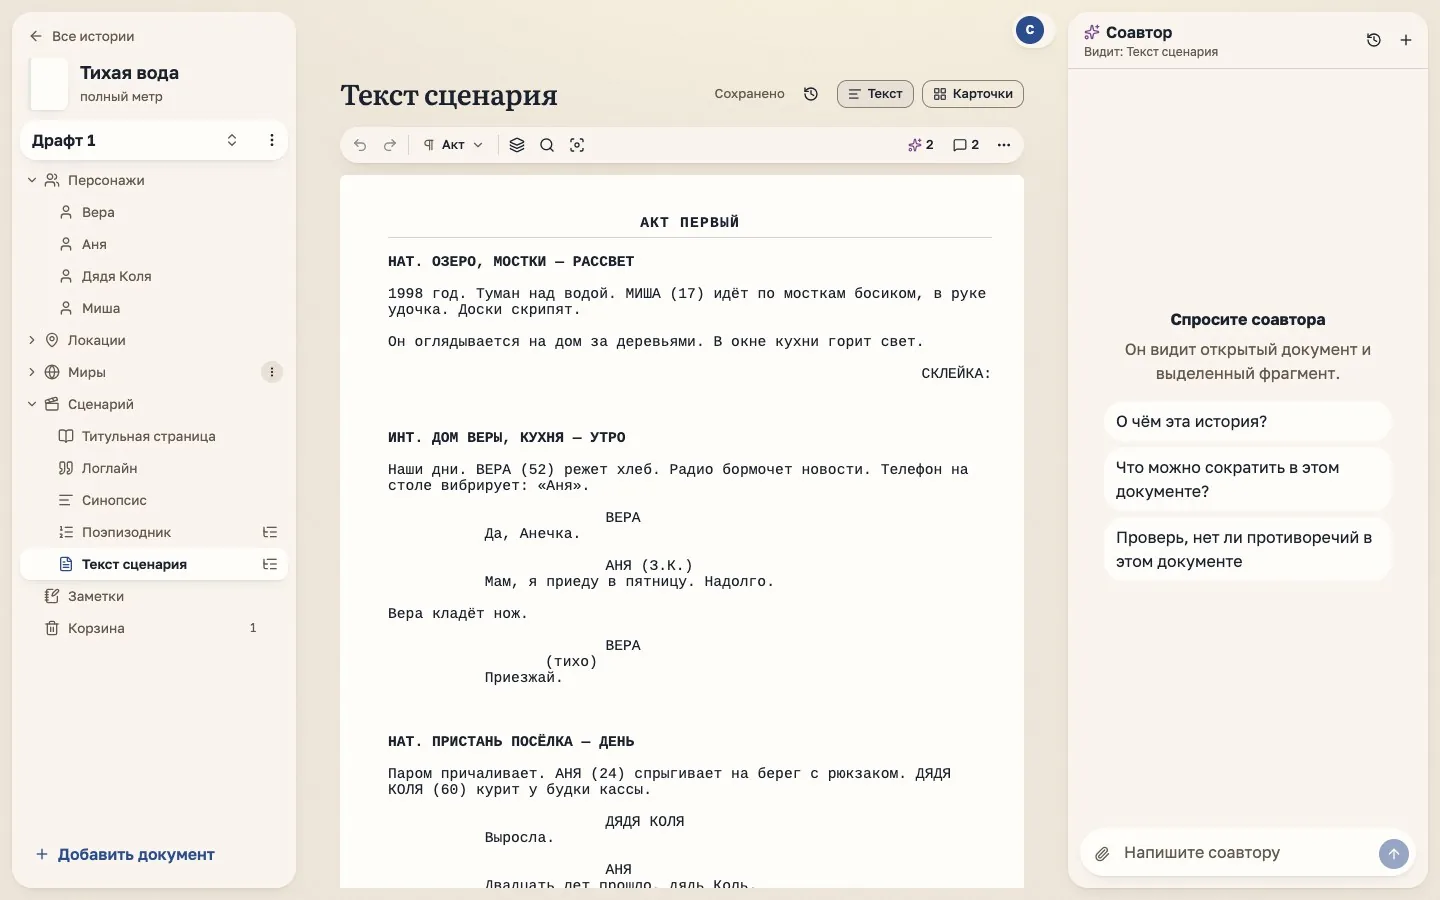
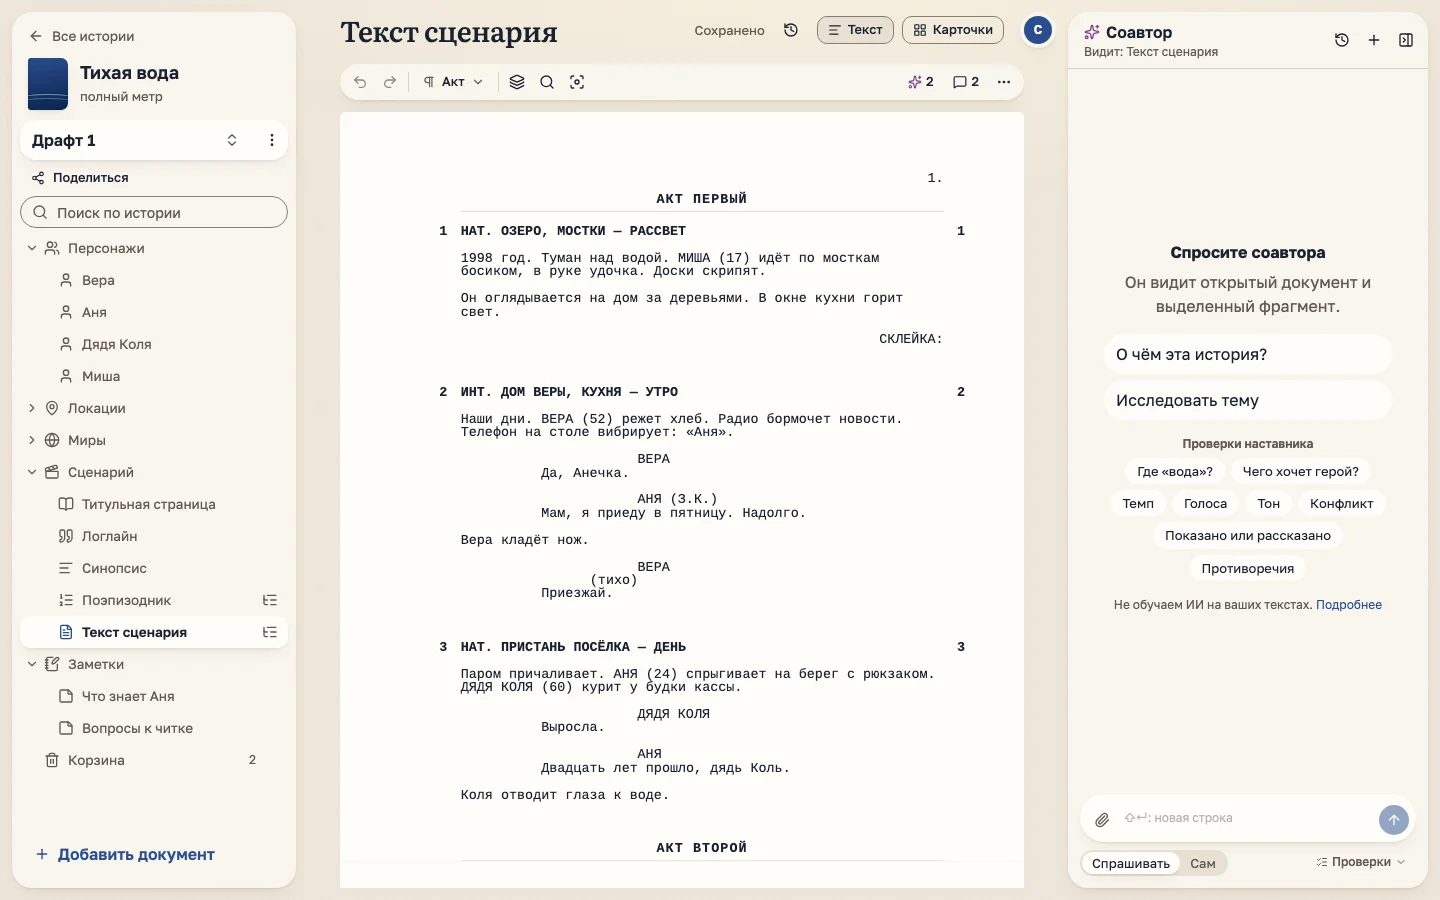
Landing mock: the dialogue as a chat, simpler notes, a fresh editor screenshot
Garage block: the author's message is a bubble on the right and the co-author
answers on the left, so the two voices no longer merge. The notes are worded
more simply, the «В диалоге» lines are gone, the hero's line is «Дай ключ на
тринадцать» and no longer sits inside the last frame.

Draft block: the screenshot is taken from the current editor on the demo
story. The file card stands above it, an arrow leads from the card onto the
sheet; the card, the arrow and a ring on the editor appear once on scroll.

diff --git a/openspec/context/_raw/design/site-landing/landing-mock.html b/openspec/context/_raw/design/site-landing/landing-mock.html
@@ -343,20 +343,22 @@ body::before { content: ""; position: fixed; inset: 0 0 auto; height: env(safe-a
 .board { position: relative; margin-top: 48px; display: grid; gap: 40px; --floor: var(--panel); }
 .chalk-defs { position: absolute; }
 .talk { min-width: 0; }
-.turn { margin-top: 24px; }
-.turn .who { margin-bottom: 8px !important; }
-.author-text { font-family: var(--font-prose); font-size: 24px; line-height: 32px; font-weight: 500; text-wrap: pretty; }
+/* The dialogue reads as a chat: the author's message is a bubble on the right, the co-author answers on the left. */
+.msg { margin-top: 20px; }
+.msg .who { margin-bottom: 8px !important; }
+.msg-author { display: flex; flex-direction: column; align-items: flex-end; }
+.bubble { max-width: 88%; padding: 14px 18px; border-radius: 20px 20px 6px 20px; background: var(--muted); font-size: 18px; line-height: 28px; text-wrap: pretty; }
+.msg-ai { margin-top: 28px; }
 .reply { font-size: 18px; line-height: 28px; text-wrap: pretty; }
-.punch { margin-top: 12px !important; font-family: var(--font-prose); font-weight: 600; font-size: 30px; line-height: 40px; letter-spacing: -0.015em; }
-.lg-br { display: none; }
-.ph, .note-from .q {
+.punch { margin-top: 16px !important; font-family: var(--font-prose); font-weight: 600; font-size: 24px; line-height: 32px; letter-spacing: -0.015em; text-wrap: balance; }
+.ph {
   text-decoration-line: underline; text-decoration-style: dotted; text-decoration-color: var(--ai); text-decoration-thickness: 2px; text-underline-offset: 5px;
 }
 .ph {
   border-radius: 3px; cursor: pointer; -webkit-box-decoration-break: clone; box-decoration-break: clone;
   transition: background-color 0.3s var(--ease), box-shadow 0.3s var(--ease);
 }
-.punch .ph { text-underline-offset: 8px; }
+.punch .ph { text-underline-offset: 7px; }
 .ph:hover { background: color-mix(in oklch, var(--ai-subtle) 60%, transparent); }
 .ph.is-on, .ph.is-hot { background: var(--ai-subtle); box-shadow: 0 0 0 3px var(--ai-subtle); text-decoration-style: solid; }
 .punch .ph:hover, .punch .ph.is-on, .punch .ph.is-hot { background: transparent; box-shadow: none; }
@@ -365,7 +367,8 @@ body::before { content: ""; position: fixed; inset: 0 0 auto; height: env(safe-a
 /* The storyboard: three chalk frames of the same floor, each with its note. */
 .story { min-width: 0; }
 .frames { margin-top: 16px !important; display: grid; gap: 40px; }
-.frame { scroll-margin-top: 104px; }
+/* A phrase of the dialogue is a link to its note: the note lands across the middle of the screen, where it is marked. */
+.frame { scroll-margin-top: max(104px, calc(50vh - 180px)); }
 .frame-pic { position: relative; border-radius: 16px; overflow: hidden; background: radial-gradient(90% 70% at 50% 30%, oklch(0.36 0.055 70 / 0.3), transparent), var(--floor); box-shadow: 0 0 0 1px var(--border); }
 .frame-pic::before { content: ""; position: absolute; inset: 0; background-image: var(--grain-image); opacity: 0.1; pointer-events: none; }
 .frame-svg { position: relative; display: block; width: 100%; height: auto; color: var(--foreground); }
@@ -373,17 +376,14 @@ body::before { content: ""; position: fixed; inset: 0 0 auto; height: env(safe-a
 .f-mark { font-weight: 600; font-size: 22px; text-anchor: middle; dominant-baseline: central; fill: currentColor; }
 .f-side, .f-name { font-size: 14px; text-anchor: middle; fill: var(--muted-foreground); }
 .f-time { font-size: 15px; font-weight: 500; fill: currentColor; }
-.frame-svg .f-say { font-family: var(--font-prose); font-weight: 600; font-size: 16px; text-anchor: end; fill: currentColor; }
 .f-num circle { fill: var(--ai); }
 .f-num text { font-size: 14px; font-weight: 700; text-anchor: middle; dominant-baseline: central; fill: var(--desk); }
 .f-drop, .f-hand { transform-box: fill-box; transform-origin: center; }
 .note { margin-top: 16px; }
 .note-title { font-weight: 600; color: var(--ai); }
 .note-text { margin-top: 4px !important; max-width: 34em; }
-.note-from { margin-top: 6px !important; color: var(--muted-foreground); }
-.note-from .q { color: var(--foreground); text-underline-offset: 4px; }
 .reasons { margin-top: 20px !important; display: grid; gap: 20px; }
-.reason { display: grid; grid-template-columns: 24px minmax(0, 1fr); column-gap: 12px; scroll-margin-top: 40vh; }
+.reason { display: grid; grid-template-columns: 24px minmax(0, 1fr); column-gap: 12px; scroll-margin-top: calc(50vh - 32px); }
 .num { display: grid; place-items: center; width: 24px; height: 24px; border-radius: 50%; background: var(--ai); color: var(--desk); font-size: 14px; line-height: 1; font-weight: 700; }
 /* With scripts the note in the middle of the screen is the marked one, like its phrase in the dialogue. */
 .js .story .note-title { color: var(--foreground); transition: color 0.3s var(--ease); }
@@ -401,15 +401,15 @@ body::before { content: ""; position: fixed; inset: 0 0 auto; height: env(safe-a
 @media (min-width: 1024px) {
   .know-head { gap: 24px; }
   .board { margin-top: 64px; }
+  .punch { font-size: 30px; line-height: 40px; }
   .board-cap { margin-top: 48px !important; }
 }
-/* The large type of the dialogue needs a column of 530 px: its hand-set lines must each stay on one line. */
+/* The large type of the dialogue needs a column of 530 px: the hero's line must stay on one line. */
 @media (min-width: 1180px) {
   .board { column-gap: 72px; }
-  .author-text { font-size: 28px; line-height: 36px; }
-  .reply { font-size: 20px; line-height: 32px; }
-  .punch { font-size: 48px; line-height: 56px; }
-  .lg-br { display: inline; }
+  .bubble, .reply { font-size: 20px; line-height: 32px; }
+  .bubble { padding: 16px 22px; }
+  .punch { font-size: 36px; line-height: 44px; }
 }
 
 /* ---------- 4. Draft ---------- */
@@ -420,14 +420,24 @@ body::before { content: ""; position: fixed; inset: 0 0 auto; height: env(safe-a
 .format { font-family: var(--font-script); font-size: 14px; line-height: 20px; padding: 4px 10px; border-radius: 6px; background: var(--paper); box-shadow: 0 0 0 1px var(--border); }
 .shot { position: relative; }
 .shot-pic { position: relative; }
-.shot-frame { border-radius: 16px; overflow: hidden; background: var(--panel); box-shadow: var(--shadow-paper), 0 0 0 1px var(--border); }
+.shot-frame { position: relative; border-radius: 16px; overflow: hidden; background: var(--panel); box-shadow: var(--shadow-paper), 0 0 0 1px var(--border); }
+/* The ring that answers the arrow: the editor has taken the file. */
+.shot-frame::after { content: ""; position: absolute; inset: 0; border-radius: inherit; box-shadow: inset 0 0 0 3px var(--primary); opacity: 0; pointer-events: none; }
 .shot-frame img { display: block; width: 100%; height: auto; aspect-ratio: 16 / 10; object-fit: cover; object-position: left top; }
 .shot-cap { margin-top: 12px !important; }
+/* The file stands above the editor; the arrow leaves its side and comes down onto the sheet, at --tx of the picture's width. */
+.drop { display: flex; align-items: flex-start; --tx: 86%; }
 .file {
-  position: relative; z-index: 2; display: flex; align-items: center; gap: 12px; width: fit-content; max-width: 100%;
-  margin: 0 0 -8px 16px; padding: 12px 16px 12px 12px; border-radius: 12px; background: var(--paper);
+  flex: none; display: flex; align-items: center; gap: 12px;
+  margin: 0 0 28px 16px; padding: 12px 16px 12px 12px; border-radius: 12px; background: var(--paper);
   box-shadow: var(--shadow-paper), 0 0 0 1px var(--border);
 }
+.drop-arrow { position: relative; flex: 1 1 0; min-width: 16px; align-self: stretch; margin: 34px 0 6px 10px; color: var(--primary); }
+.drop-arrow svg { position: absolute; inset: 0; width: 100%; height: 100%; overflow: visible; }
+.drop-arrow path { fill: none; stroke: currentColor; stroke-width: 2; stroke-linecap: round; vector-effect: non-scaling-stroke; }
+.drop-arrow::after { content: ""; position: absolute; right: -5px; bottom: 2px; width: 10px; height: 10px; border-right: 2px solid currentColor; border-bottom: 2px solid currentColor; border-radius: 0 0 2px 0; transform: rotate(45deg); }
+.drop-gap { flex: none; width: calc(100% - var(--tx)); }
+@media (min-width: 640px) { .drop { --tx: 47%; } }
 .file-name { font-weight: 500; }
 @media (max-width: 639px) {
   .shot-frame { aspect-ratio: 4 / 3; }
@@ -436,8 +446,6 @@ body::before { content: ""; position: fixed; inset: 0 0 auto; height: env(safe-a
 @media (min-width: 1024px) {
   .draft-grid { grid-template-columns: minmax(0, 5fr) minmax(0, 7fr); gap: 56px; align-items: center; }
   .shot { margin-right: -96px; }
-  /* 74% of the picture is the empty part of the sidebar on the screenshot: the card covers no text there. */
-  .file { position: absolute; left: -40px; top: 74%; margin: 0; }
 }
 
 /* ---------- 5. Team ---------- */
@@ -505,6 +513,7 @@ body::before { content: ""; position: fixed; inset: 0 0 auto; height: env(safe-a
 @keyframes sweep { from { clip-path: inset(-6px 100% -6px -6px); } to { clip-path: inset(-6px -6px -6px -6px); } }
 @keyframes sweep-far { from { clip-path: inset(-6px 100% -6px -6px); } to { clip-path: inset(-6px -40ch -6px -6px); } }
 @keyframes fade { from { opacity: 0; } to { opacity: 1; } }
+@keyframes ring { 0% { opacity: 0; } 35% { opacity: 0.55; } 100% { opacity: 0; } }
 @media (prefers-reduced-motion: no-preference) {
   .js .hero-copy > * { animation: rise 0.9s var(--ease) both; animation-delay: calc(var(--i, 0) * 80ms); }
   .js .stage { animation: rise 1s var(--ease) 0.15s both; }
@@ -515,6 +524,11 @@ body::before { content: ""; position: fixed; inset: 0 0 auto; height: env(safe-a
   .js .ask-panel mark, .js .ask-panel ins { animation: sweep 0.7s var(--ease) 0.25s both; }
   .js .ask-panel .ask-answer > * { animation: rise 0.7s var(--ease) 0.35s both; }
   .js [data-reveal] { transition: opacity 0.8s var(--ease), transform 0.8s var(--ease); }
+  .js .shot-pic .file { transition: opacity 0.6s var(--ease), transform 0.7s var(--ease); }
+  .js .shot-pic:not([data-in]) .file { opacity: 0; transform: translateY(-12px); }
+  .js .shot-pic .drop-arrow { clip-path: inset(-12px -12px -12px -12px); transition: clip-path 0.9s cubic-bezier(0.45, 0, 0.2, 1) 0.5s; }
+  .js .shot-pic:not([data-in]) .drop-arrow { clip-path: inset(-12px 100% -12px -12px); }
+  .js .shot-pic[data-in] .shot-frame::after { animation: ring 1.2s var(--ease) 1.3s both; }
   .js [data-reveal]:not([data-in]) { opacity: 0; transform: translateY(32px); }
   .js .frame .f-draw { stroke-dasharray: 100; transition: stroke-dashoffset 1.4s cubic-bezier(0.45, 0, 0.2, 1) 0.2s; }
   .js .frame:not([data-in]) .f-draw { stroke-dashoffset: 100; }
@@ -734,14 +748,14 @@ body::before { content: ""; position: fixed; inset: 0 0 auto; height: env(safe-a
 
       <div class="talk" data-reveal>
         <p class="small muted">Редакционный пример</p>
-        <div class="turn">
+        <div class="msg msg-author">
           <p class="who">Автор</p>
-          <p class="author-text">Хочу помирить братьев в финале.<br class="lg-br"> Но я их знаю.<br class="lg-br"> <a class="ph" href="#note-1" data-n="1">Ни один из них не скажет «прости».</a></p>
+          <p class="bubble">Хочу помирить братьев в финале. Но я их знаю. <a class="ph" href="#note-1" data-n="1">Ни один из них не скажет «прости».</a></p>
         </div>
-        <div class="turn">
+        <div class="msg msg-ai">
           <p class="who who-ai"><span class="dot" aria-hidden="true"></span>Соавтор</p>
           <p class="reply">Помните, как они делили отцовский гараж и <a class="ph" href="#note-2" data-n="2">провели мелом черту</a> прямо по полу? Что, если в финале младший придёт в гараж, а <a class="ph" href="#note-3" data-n="3">старший уже лежит под его машиной?</a> Из‑под машины только <a class="ph" href="#note-4" data-n="4">рука высунется.</a></p>
-          <p class="punch"><a class="ph" href="#note-5" data-n="5">«Дай на тринадцать».</a></p>
+          <p class="punch"><a class="ph" href="#note-5" data-n="5">«Дай ключ на тринадцать».</a></p>
         </div>
       </div>
 
@@ -778,7 +792,6 @@ body::before { content: ""; position: fixed; inset: 0 0 auto; height: env(safe-a
             <div class="note">
               <p class="note-title">В начале сценария</p>
               <p class="note-text">Братья проводят мелом черту по полу отцовского гаража. У каждого теперь своя сторона.</p>
-              <p class="small note-from">В диалоге: <span class="q">провели мелом черту</span></p>
             </div>
           </li>
 
@@ -811,13 +824,12 @@ body::before { content: ""; position: fixed; inset: 0 0 auto; height: env(safe-a
             <div class="note">
               <p class="note-title">После ссоры</p>
               <p class="note-text">Младшему нужен ключ. Старший кладёт его на черту. Из рук в руки они его уже не передают.</p>
-              <p class="small note-from">В диалоге: <span class="q">рука высунется</span></p>
             </div>
           </li>
 
           <li class="frame">
             <div class="frame-pic">
-              <svg class="frame-svg" viewBox="0 0 480 270" role="img" aria-label="Тот же пол гаража в финале. Старший перешёл черту и лежит под машиной на стороне младшего, из-под машины видна рука. Его место на своей стороне пусто. Младший стоит рядом с машиной. Реплика старшего: «Дай на тринадцать».">
+              <svg class="frame-svg" viewBox="0 0 480 270" role="img" aria-label="Тот же пол гаража в финале. Старший перешёл черту и лежит под машиной на стороне младшего, из-под машины видна рука. Его место на своей стороне пусто. Младший стоит рядом с машиной.">
                 <g filter="url(#chalk)" fill="none" stroke="currentColor" stroke-width="2.5" stroke-linecap="round" stroke-linejoin="round">
                   <g class="f-el" style="--d:0">
                     <g fill="currentColor" stroke="none"><rect x="348" y="58" width="7" height="24" rx="3"/><rect x="429" y="58" width="7" height="24" rx="3"/><rect x="348" y="124" width="7" height="24" rx="3"/><rect x="429" y="124" width="7" height="24" rx="3"/></g>
@@ -838,14 +850,13 @@ body::before { content: ""; position: fixed; inset: 0 0 auto; height: env(safe-a
                 </g>
                 <g class="f-el" style="--d:3"><text class="f-mark" x="392" y="103">С</text></g>
                 <g class="f-el" style="--d:5"><text class="f-mark" x="444" y="226">М</text></g>
-                <g class="f-el" style="--d:6"><text class="f-say" x="378" y="192">«Дай на</text><text class="f-say" x="378" y="212">тринадцать»</text></g>
                 <g class="f-el" style="--d:0">
                   <text class="f-side" x="120" y="27">сторона старшего</text><text class="f-side" x="350" y="27">сторона младшего</text>
                   <text class="f-time" x="18" y="252">финал</text>
                 </g>
                 <g class="f-el f-num" style="--d:7"><circle cx="456" cy="62" r="12"/><text x="456" y="62">1</text></g>
                 <g class="f-el f-num" style="--d:8"><circle cx="214" cy="104" r="12"/><text x="214" y="104">2</text></g>
-                <g class="f-el f-num" style="--d:9"><circle cx="292" cy="186" r="12"/><text x="292" y="186">3</text></g>
+                <g class="f-el f-num" style="--d:9"><circle cx="362" cy="186" r="12"/><text x="362" y="186">3</text></g>
               </svg>
             </div>
             <ol class="reasons">
@@ -853,25 +864,22 @@ body::before { content: ""; position: fixed; inset: 0 0 auto; height: env(safe-a
                 <span class="num" aria-hidden="true">1</span>
                 <div>
                   <p class="note-title">Характер братьев</p>
-                  <p class="note-text">Автор хочет их помирить. Обоим проще починить машину, чем первыми заговорить о ссоре.</p>
-                  <p class="small note-from">В диалоге: <span class="q">Ни один из них не скажет «прости»</span></p>
-                </div>
+                  <p class="note-text">Ни один не заговорит о ссоре первым. Обоим проще починить машину.</p>
+                    </div>
               </li>
               <li class="reason" id="note-3" data-n="3" data-note>
                 <span class="num" aria-hidden="true">2</span>
                 <div>
                   <p class="note-title">Взгляд зрителя</p>
-                  <p class="note-text">Дэвид Бордуэлл писал о том, как зритель использует уже замеченные детали. Здесь зритель помнит черту. Теперь он видит, на чьей стороне гаража лежит старший.</p>
-                  <p class="small note-from">В диалоге: <span class="q">старший уже лежит под его машиной</span></p>
-                </div>
+                  <p class="note-text">Зритель помнит черту. Теперь он видит, на чьей стороне гаража лежит старший. О том, как зритель использует уже замеченные детали, писал Дэвид Бордуэлл.</p>
+                    </div>
               </li>
               <li class="reason" id="note-5" data-n="5" data-note>
                 <span class="num" aria-hidden="true">3</span>
                 <div>
                   <p class="note-title">Подтекст реплики</p>
-                  <p class="note-text">На словах старшему нужен ключ. Для младшего это ещё и приглашение снова поработать вместе.</p>
-                  <p class="small note-from">В диалоге: <span class="q">«Дай на тринадцать»</span></p>
-                </div>
+                  <p class="note-text">На словах старший просит ключ. На деле он зовёт брата снова работать вместе.</p>
+                    </div>
               </li>
             </ol>
           </li>
@@ -893,12 +901,16 @@ body::before { content: ""; position: fixed; inset: 0 0 auto; height: env(safe-a
     </div>
     <figure class="shot">
       <div class="shot-pic">
-      <div class="file" aria-hidden="true">
+      <div class="drop" aria-hidden="true">
+      <div class="file">
         <svg width="32" height="40" viewBox="0 0 32 40" fill="none" aria-hidden="true"><path d="M3 1h17l9 9v27a2 2 0 0 1-2 2H3a2 2 0 0 1-2-2V3a2 2 0 0 1 2-2Z" fill="var(--panel)" stroke="var(--border-strong)" stroke-width="1.5"/><path d="M20 1v9h9" stroke="var(--border-strong)" stroke-width="1.5" stroke-linejoin="round"/><path d="M7 18h18M7 23h18M7 28h11" stroke="var(--border-strong)" stroke-width="1.5" stroke-linecap="round"/></svg>
         <div>
           <p class="file-name">Тихая вода.fdx</p>
           <p class="small muted">Final Draft · 7 сцен</p>
         </div>
+      </div>
+      <span class="drop-arrow"><svg viewBox="0 0 100 100" preserveAspectRatio="none" focusable="false"><path d="M0 0 C 62 0, 100 34, 100 100"/></svg></span>
+      <span class="drop-gap"></span>
       </div>
       <div class="shot-frame">
         <img src="shots/workspace-1440.webp" srcset="shots/workspace-720.webp 720w, shots/workspace-1440.webp 1440w" sizes="(min-width: 1024px) 760px, 190vw" width="1440" height="900" loading="lazy" alt="Редактор Соавтора: слева документы истории и драфт, в центре текст сценария, справа чат Соавтора.">
@@ -1024,6 +1036,11 @@ body::before { content: ""; position: fixed; inset: 0 0 auto; height: env(safe-a
     for (const on of ["mouseenter", "focus"]) p.addEventListener(on, () => mark(+p.dataset.n, "is-hot"));
     for (const off of ["mouseleave", "blur"]) p.addEventListener(off, () => mark(0, "is-hot"));
   });
+
+  /* 4. The file card, its arrow and the ring on the editor appear once when the picture comes into view. */
+  const pic = $(".shot-pic");
+  if (reduce) pic.setAttribute("data-in", "");
+  else new IntersectionObserver(([e], io) => { if (e.isIntersecting) { pic.setAttribute("data-in", ""); io.disconnect(); } }, { threshold: 0.35 }).observe(pic);
 
   /* 5. The words of the last sentence light up one after another, once. */
   const credo = $("#credo");
